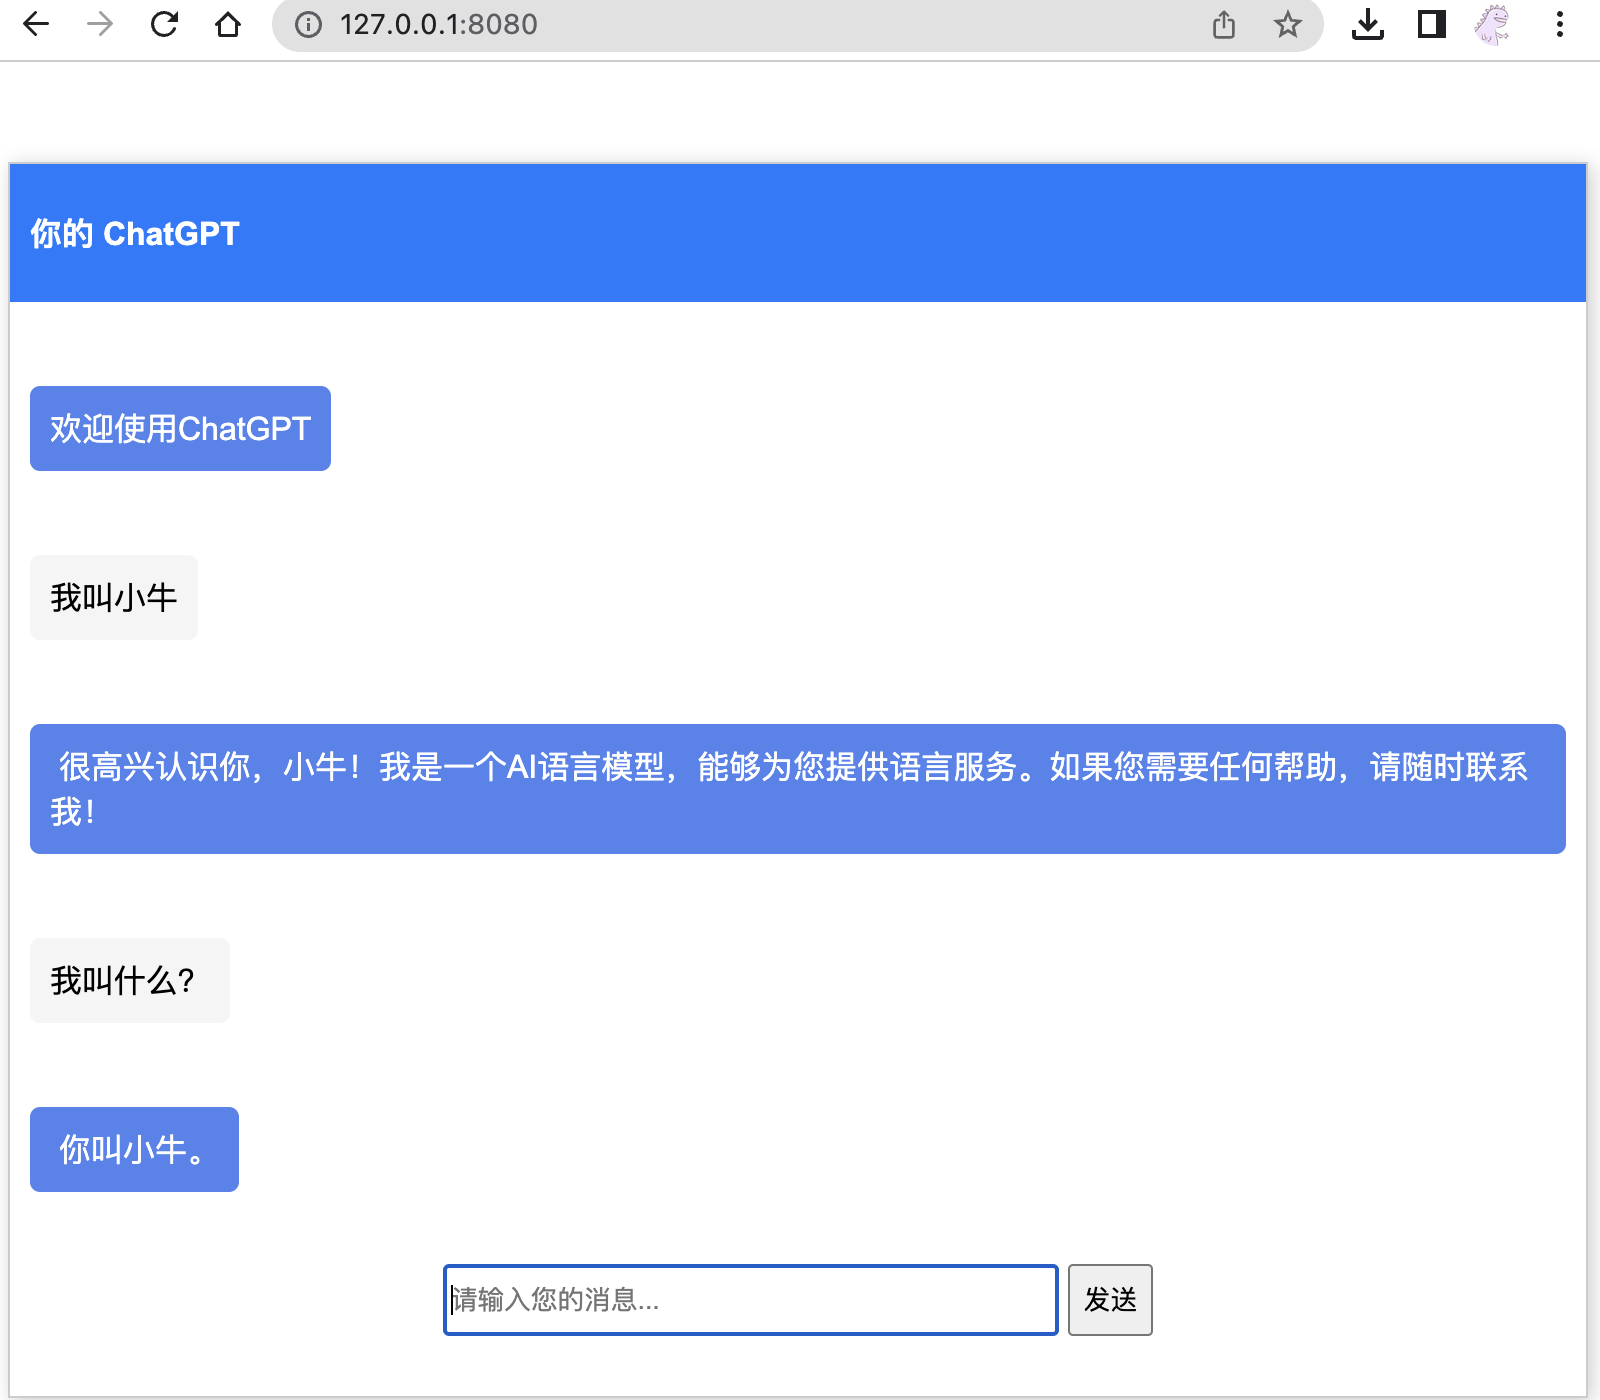
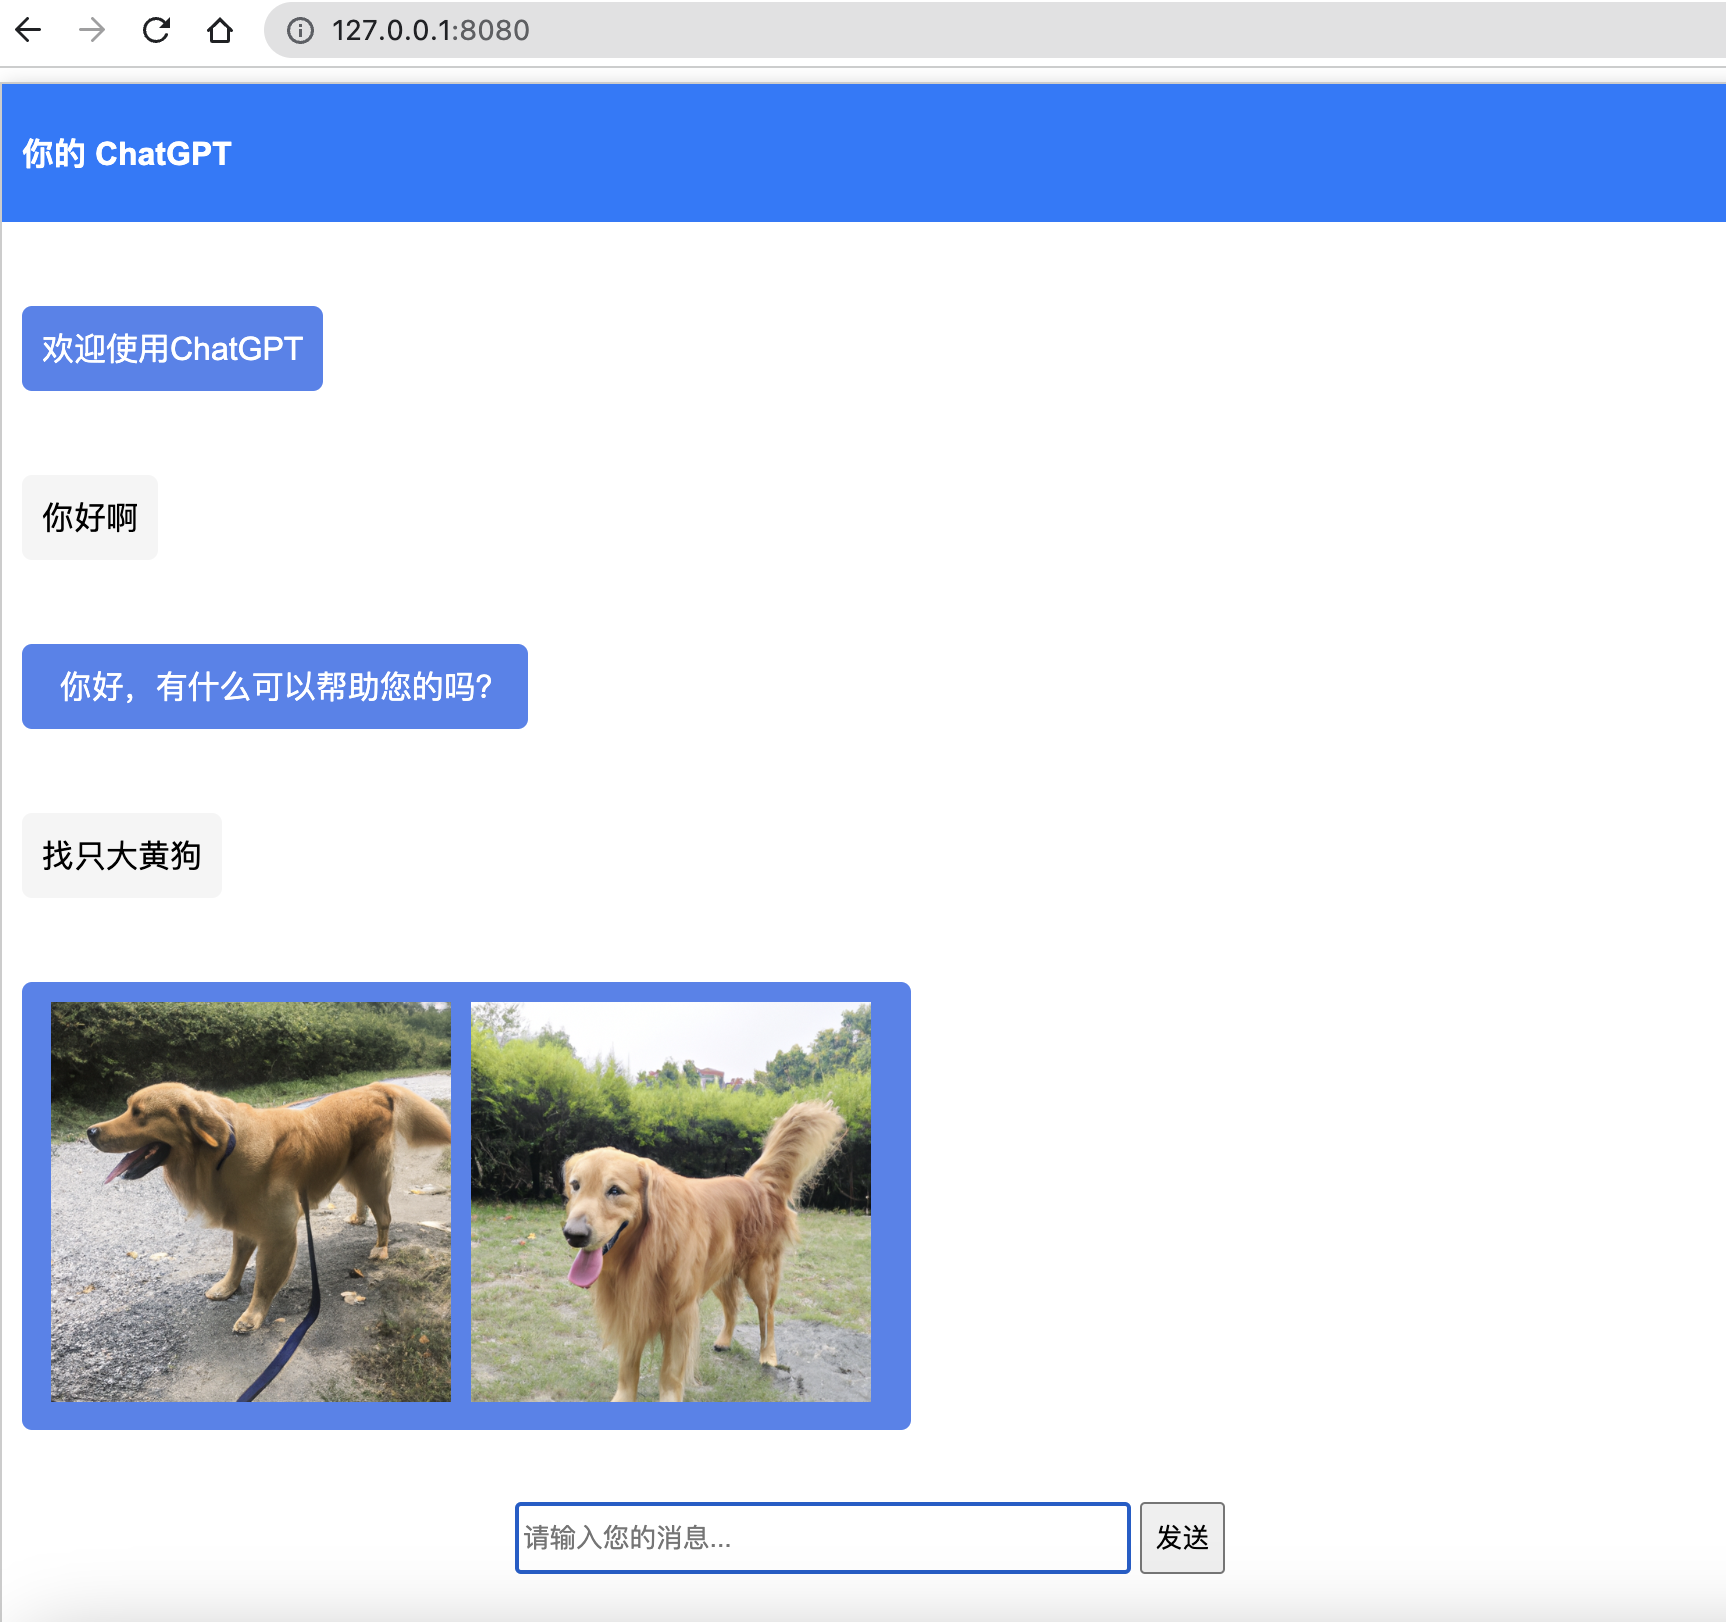
docs: paint image 🔥🔥🔥

diff --git a/src/main/resources/static/js/index.js b/src/main/resources/static/js/index.js
@@ -24,13 +24,24 @@ const onMessage = () => {
         lockSendBtn()
     }))
     sse.addEventListener('message', function (res) {
-        console.log('res', res)
-        if (res.data === '[DONE]') {
+        let resJson = JSON.parse(res.data)
+        console.log('resJson', resJson)
+        if (resJson.messageType === 'TEXT') {
+            if (resJson.end === true) {
+                sse.close()
+                unSendBtn()
+            } else {
+                last_message.find('p').append(`${resJson.message}`)
+            }
+            //图片
+        } else {
+            resJson.message.split(",").forEach(url => {
+                last_message.find('p').append(`<img class="chat-img" src="${url}"/>`)
+            })
             sse.close()
             unSendBtn()
-        } else {
-            last_message.find('p').append(`${res.data}`)
         }
+
     })
 
     sse.addEventListener('error', function () {

diff --git a/src/main/resources/static/css/index.css b/src/main/resources/static/css/index.css
@@ -72,3 +72,9 @@
     list-style: none;
     padding: 0;
 }
+
+.chat-img {
+    width: 200px;
+    height: 200px;
+    margin-right: 10px;
+}

diff --git a/src/main/java/org/chatgptstream/openai/listener/OpenAISubscriber.java b/src/main/java/org/chatgptstream/openai/listener/OpenAISubscriber.java
@@ -2,12 +2,19 @@ package org.chatgptstream.openai.listener;
 
 import com.alibaba.fastjson.JSON;
 import lombok.extern.slf4j.Slf4j;
+import org.chatgptstream.openai.enmus.MessageType;
+import org.chatgptstream.openai.enmus.UserType;
 import org.chatgptstream.openai.service.dto.Message;
-import org.chatgptstream.openai.util.api.res.OpenAiResponse;
+import org.chatgptstream.openai.service.dto.MessageRes;
+import org.chatgptstream.openai.util.api.res.chat.image.DataRes;
+import org.chatgptstream.openai.util.api.res.chat.image.OpenAiImageResponse;
+import org.chatgptstream.openai.util.api.res.chat.text.OpenAiResponse;
 import org.reactivestreams.Subscriber;
 import org.reactivestreams.Subscription;
 import reactor.core.Disposable;
 import reactor.core.publisher.FluxSink;
+
+import java.util.stream.Collectors;
 
 /**
  * @author niuxiangqian
@@ -22,6 +29,7 @@ public class OpenAISubscriber implements Subscriber<String>, Disposable {
     private final CompletedCallBack completedCallBack;
     private final StringBuilder sb;
     private final Message questions;
+    private final MessageType messageType;
 
     public OpenAISubscriber(FluxSink<String> emitter, String sessionId, CompletedCallBack completedCallBack, Message questions) {
         this.emitter = emitter;
@@ -29,6 +37,7 @@ public class OpenAISubscriber implements Subscriber<String>, Disposable {
         this.completedCallBack = completedCallBack;
         this.questions = questions;
         this.sb = new StringBuilder();
+        this.messageType = questions.getMessageType();
     }
 
     @Override
@@ -40,17 +49,22 @@ public class OpenAISubscriber implements Subscriber<String>, Disposable {
     @Override
     public void onNext(String data) {
         log.info("OpenAI返回数据：{}", data);
+        if (messageType == MessageType.IMAGE) {
+            subscription.request(1);
+            sb.append(data);
+            return;
+        }
         if ("[DONE]".equals(data)) {
             log.info("OpenAI返回数据结束了");
-            emitter.next("[DONE]");
             subscription.request(1);
+            emitter.next(JSON.toJSONString(new MessageRes(MessageType.TEXT, "", true)));
             completedCallBack.completed(questions, sessionId, sb.toString());
             emitter.complete();
         } else {
             OpenAiResponse openAiResponse = JSON.parseObject(data, OpenAiResponse.class);
             String content = openAiResponse.getChoices().get(0).getDelta().getContent();
             content = content == null ? "" : content;
-            emitter.next(content);
+            emitter.next(JSON.toJSONString(new MessageRes(MessageType.TEXT, content, null)));
             sb.append(content);
             subscription.request(1);
         }
@@ -67,6 +81,11 @@ public class OpenAISubscriber implements Subscriber<String>, Disposable {
     @Override
     public void onComplete() {
         log.info("OpenAI返回数据完成");
+        if (messageType == MessageType.IMAGE) {
+            OpenAiImageResponse aiImageResponse = JSON.parseObject(sb.toString(), OpenAiImageResponse.class);
+            String url = aiImageResponse.getData().stream().map(DataRes::getUrl).collect(Collectors.joining(","));
+            emitter.next(JSON.toJSONString(new MessageRes(MessageType.IMAGE, url, true)));
+        }
         emitter.complete();
     }
 

diff --git a/src/main/java/org/chatgptstream/openai/service/impl/UserChatServiceImpl.java b/src/main/java/org/chatgptstream/openai/service/impl/UserChatServiceImpl.java
@@ -14,6 +14,7 @@ import org.springframework.util.Assert;
 import org.springframework.util.StringUtils;
 import reactor.core.publisher.Flux;
 
+import java.util.Arrays;
 import java.util.List;
 import java.util.stream.Collectors;
 
@@ -30,11 +31,24 @@ public class UserChatServiceImpl implements UserChatService {
     private final OpenAiWebClient openAiWebClient;
     private static final float TOKEN_CONVERSION_RATE = 0.7f;
     private static final Integer MAX_TOKEN = 4096;
+    private static final List<String> IMAGE_COMMAND_PREFIX = Arrays.asList("画", "找");
 
     @Override
     public Flux<String> send(MessageType type, String content, String sessionId) {
 
         Assert.isTrue(Boolean.FALSE.equals(openAiWebClient.checkContent(content).block()), "您输入的内容违规");
+
+        if (IMAGE_COMMAND_PREFIX.contains(String.valueOf(content.charAt(0)))) {
+            Message userMessage = new Message(MessageType.IMAGE, UserType.USER, content);
+            return Flux.create(emitter -> {
+                OpenAISubscriber subscriber = new OpenAISubscriber(emitter, sessionId, this, userMessage);
+                Flux<String> openAiResponse =
+                    openAiWebClient.getImage(sessionId, content);
+                openAiResponse.subscribe(subscriber);
+                emitter.onDispose(subscriber);
+            });
+        }
+
         Message userMessage = new Message(MessageType.TEXT, UserType.USER, content);
         int currentToken = (int) (content.length() / TOKEN_CONVERSION_RATE);
         List<Message> history = userSessionUtil.getHistory(sessionId, MessageType.TEXT, (int) ((MAX_TOKEN / TOKEN_CONVERSION_RATE) - currentToken));
@@ -62,7 +76,7 @@ public class UserChatServiceImpl implements UserChatService {
     @Override
     public void completed(Message questions, String sessionId, String response) {
         userSessionUtil.addMessage(sessionId, questions);
-        userSessionUtil.addMessage(sessionId, new Message(MessageType.TEXT, UserType.BOT, response));
+        userSessionUtil.addMessage(sessionId, new Message(questions.getMessageType(), UserType.BOT, response));
     }
 
     @Override

diff --git a/src/main/java/org/chatgptstream/openai/util/api/OpenAiWebClient.java b/src/main/java/org/chatgptstream/openai/util/api/OpenAiWebClient.java
@@ -113,6 +113,35 @@ public class OpenAiWebClient {
 
     }
 
+    public Flux<String> getImage(String user, String prompt) {
+        JSONObject params = new JSONObject();
+
+        params.put("size", "512x512");
+        params.put("prompt", prompt);
+        params.put("user", user);
+        params.put("n", 2);
+
+        return webClient.post()
+            .uri(ApiConstant.IMAGE_API)
+            .header(HttpHeaders.AUTHORIZATION, "Bearer " + authorization)
+            .bodyValue(params.toJSONString())
+            .retrieve().bodyToFlux(String.class)
+            .onErrorResume(WebClientResponseException.class, ex -> {
+                HttpStatus status = ex.getStatusCode();
+                String res = ex.getResponseBodyAsString();
+                log.error("OpenAI API error: {} {}", status, res);
+                return Mono.error(new RuntimeException(res));
+            });
+
+    }
+
+    /**
+     * 内容检查
+     * 频繁输入违规的内容，会导致账号被封禁
+     *
+     * @param prompt
+     * @return
+     */
     public Mono<Boolean> checkContent(String prompt) {
         JSONObject params = new JSONObject();
         params.put("input", prompt);

diff --git a/src/main/java/org/chatgptstream/openai/service/dto/MessageRes.java b/src/main/java/org/chatgptstream/openai/service/dto/MessageRes.java
@@ -1,0 +1,24 @@
+package org.chatgptstream.openai.service.dto;
+
+import lombok.AllArgsConstructor;
+import lombok.Data;
+import lombok.NoArgsConstructor;
+import org.chatgptstream.openai.enmus.MessageType;
+import org.chatgptstream.openai.enmus.UserType;
+
+import java.util.Date;
+
+/**
+ * @author niuxiangqian
+ * @version 1.0
+ * @date 2023/3/23 14:48
+ **/
+@Data
+@NoArgsConstructor
+@AllArgsConstructor
+public class MessageRes {
+    private MessageType messageType;
+    private String message;
+    private Boolean end;
+
+}

diff --git a/src/main/java/org/chatgptstream/openai/util/api/res/chat/image/OpenAiImageResponse.java b/src/main/java/org/chatgptstream/openai/util/api/res/chat/image/OpenAiImageResponse.java
@@ -1,0 +1,16 @@
+package org.chatgptstream.openai.util.api.res.chat.image;
+
+import lombok.Data;
+
+import java.util.List;
+
+/**
+ * @author niuxiangqian
+ * @version 1.0
+ * @date 2023/3/23 22:28
+ **/
+@Data
+public class OpenAiImageResponse {
+    private Long created;
+    private List<DataRes> data;
+}

diff --git a/src/main/java/org/chatgptstream/openai/util/api/res/chat/image/DataRes.java b/src/main/java/org/chatgptstream/openai/util/api/res/chat/image/DataRes.java
@@ -1,0 +1,13 @@
+package org.chatgptstream.openai.util.api.res.chat.image;
+
+import lombok.Data;
+
+/**
+ * @author niuxiangqian
+ * @version 1.0
+ * @date 2023/3/23 22:29
+ **/
+@Data
+public class DataRes {
+    private String url;
+}

diff --git a/src/main/java/org/chatgptstream/openai/util/api/ApiConstant.java b/src/main/java/org/chatgptstream/openai/util/api/ApiConstant.java
@@ -13,4 +13,6 @@ public interface ApiConstant {
     String CHAT_API = HOST + "/v1/chat/completions";
 
     String CONTENT_AUDIT = HOST + "/v1/moderations";
+
+    String IMAGE_API = HOST + "/v1/images/generations";
 }

diff --git a/src/main/java/org/chatgptstream/openai/util/api/res/chat/text/ChatChoice.java b/src/main/java/org/chatgptstream/openai/util/api/res/chat/text/ChatChoice.java
@@ -1,4 +1,4 @@
-package org.chatgptstream.openai.util.api.res;
+package org.chatgptstream.openai.util.api.res.chat.text;
 
 import com.fasterxml.jackson.annotation.JsonProperty;
 import lombok.Data;

diff --git a/src/main/java/org/chatgptstream/openai/util/api/res/chat/text/Usage.java b/src/main/java/org/chatgptstream/openai/util/api/res/chat/text/Usage.java
@@ -1,4 +1,4 @@
-package org.chatgptstream.openai.util.api.res;
+package org.chatgptstream.openai.util.api.res.chat.text;
 
 import com.fasterxml.jackson.annotation.JsonProperty;
 import lombok.Data;

diff --git a/src/main/java/org/chatgptstream/openai/util/api/res/chat/text/Message.java b/src/main/java/org/chatgptstream/openai/util/api/res/chat/text/Message.java
@@ -1,4 +1,4 @@
-package org.chatgptstream.openai.util.api.res;
+package org.chatgptstream.openai.util.api.res.chat.text;
 
 import lombok.Data;
 
